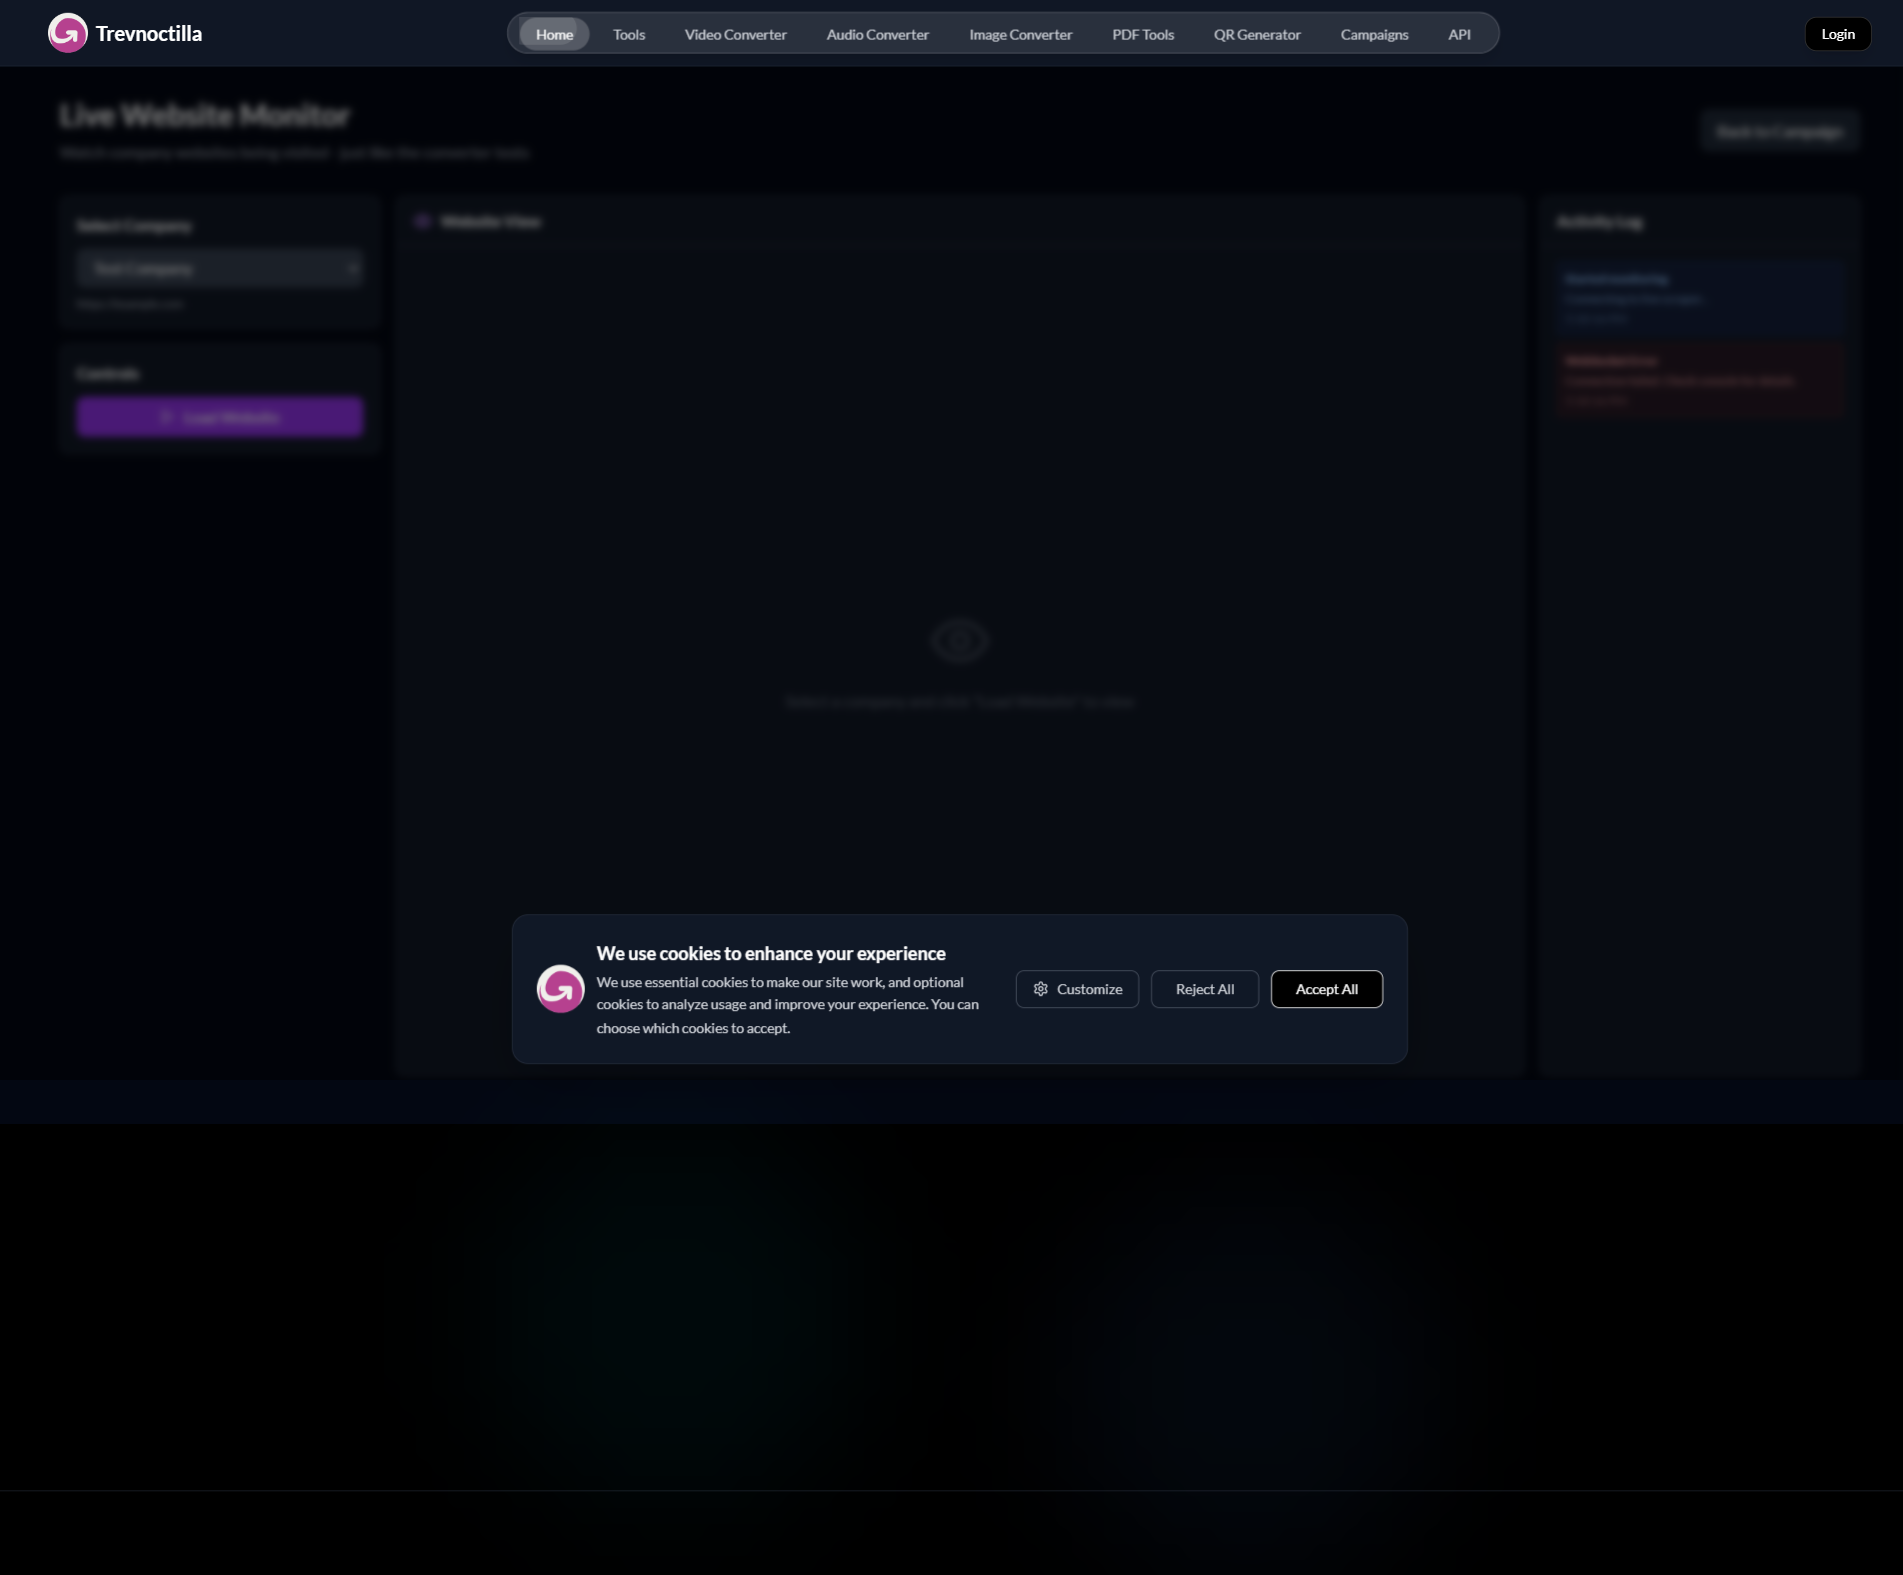
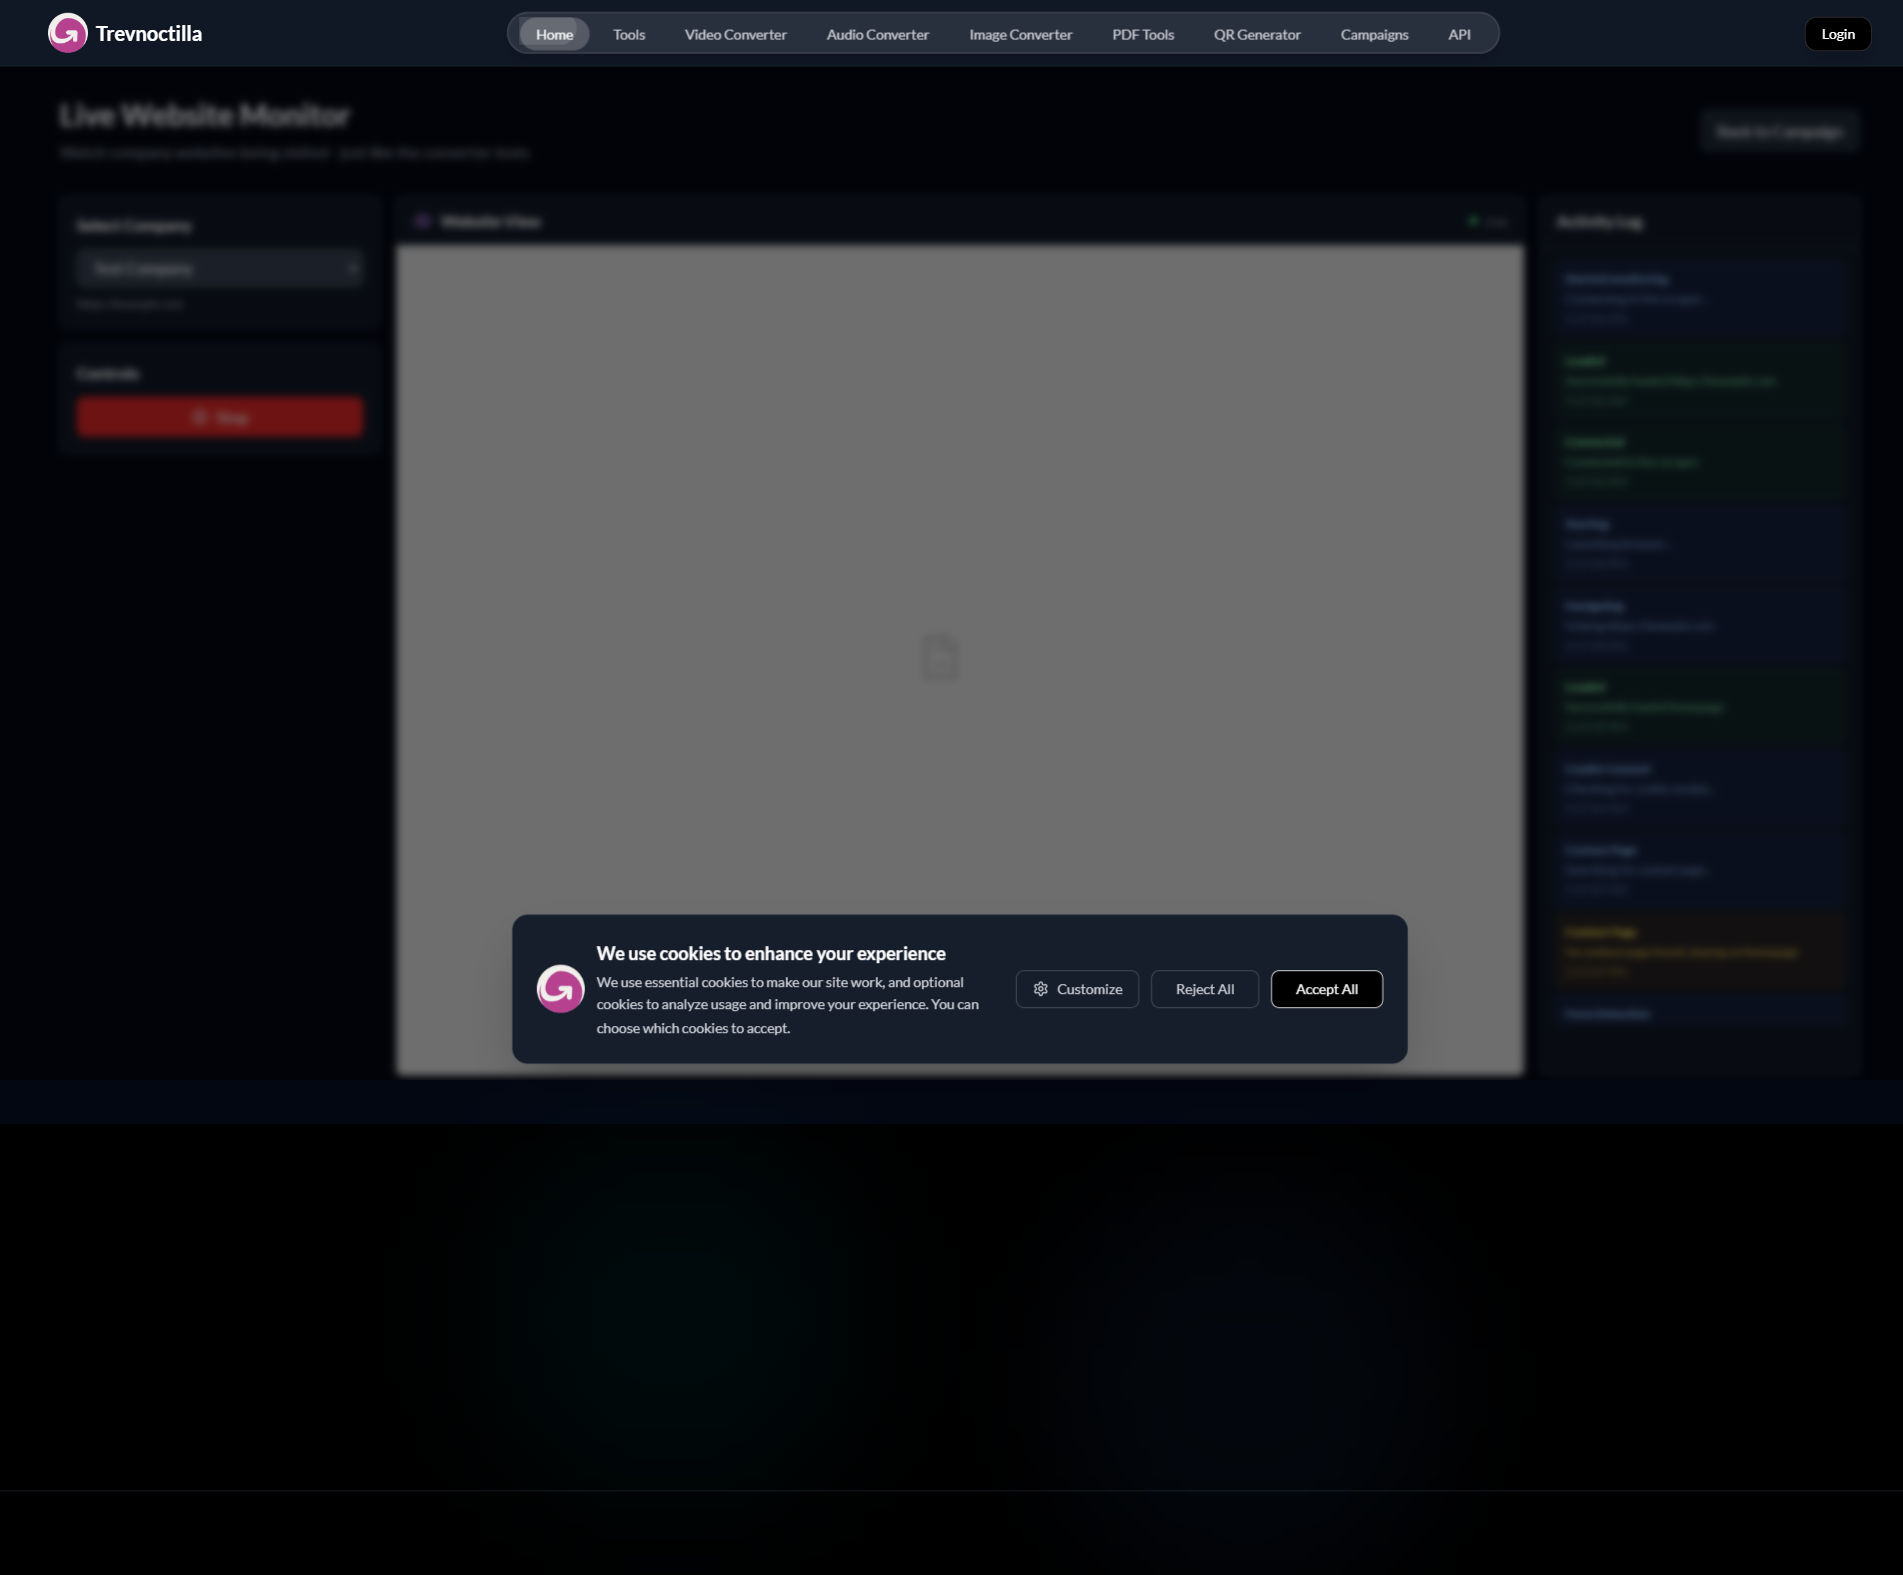
Fix infinite WebSocket reconnection loop with useRef

Changed region(s): [[0.031, 0.1556, 0.9301, 0.6844], [0.8371, 0.28, 0.8681, 0.3111], [0.8371, 0.2178, 0.8681, 0.2489]]

diff --git a/app/campaigns/[id]/monitor/page.tsx b/app/campaigns/[id]/monitor/page.tsx
@@ -36,25 +36,22 @@ export default function CampaignMonitorPage() {
     fetchCampaign();
   }, [campaignId]);
 
-  // Auto-start monitoring when company is selected
+  // Auto-start monitoring when company is selected (only once)
+  const hasStartedRef = useRef(false);
+  
   useEffect(() => {
-    if (selectedCompany && !isMonitoring && !loading) {
-      console.log('[Auto-Start] Conditions met, starting monitoring in 1 second...');
-      console.log('[Auto-Start] selectedCompany:', selectedCompany);
-      console.log('[Auto-Start] isMonitoring:', isMonitoring);
-      console.log('[Auto-Start] loading:', loading);
+    if (selectedCompany && !hasStartedRef.current && !loading) {
+      console.log('[Auto-Start] Starting monitoring for:', selectedCompany.company_name);
+      hasStartedRef.current = true;
       
       // Small delay to ensure UI is ready
       const timer = setTimeout(() => {
-        console.log('[Auto-Start] Calling startMonitoring()...');
         startMonitoring();
       }, 1000);
       
       return () => clearTimeout(timer);
-    } else {
-      console.log('[Auto-Start] Conditions not met:', { selectedCompany: !!selectedCompany, isMonitoring, loading });
     }
-  }, [selectedCompany, loading, isMonitoring]);
+  }, [selectedCompany, loading]);
 
   const fetchCampaign = async () => {
     try {
